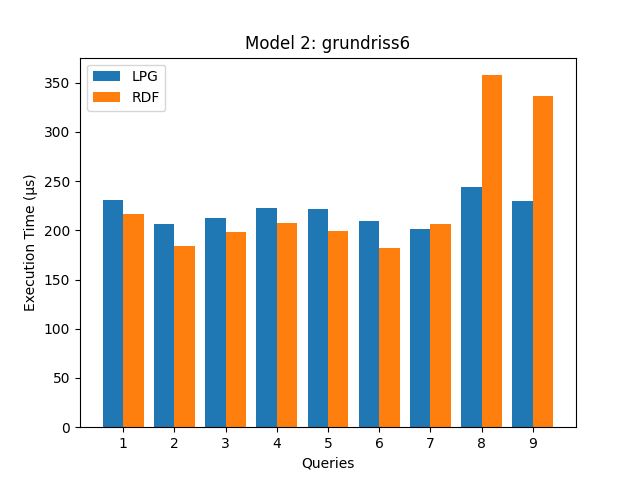
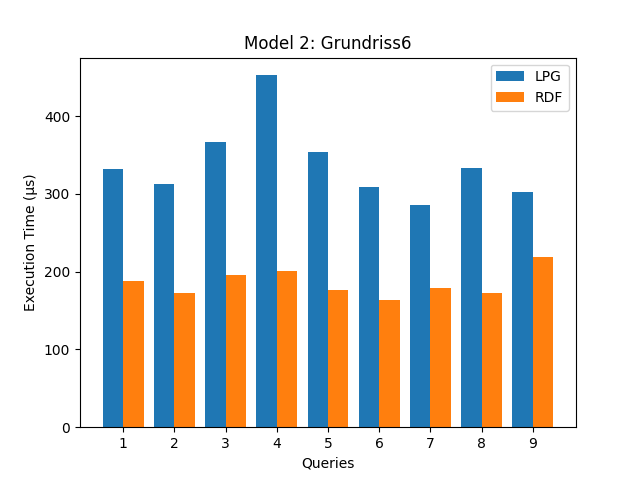
change metrics & execute the experiment again

diff --git a/main.py b/main.py
@@ -1,12 +1,12 @@
 from experiments import performanceTest
 import matplotlib.pyplot as plt
+import matplotlib.ticker as ticker
 import numpy as np
 import pandas as pd
 
 def average_response_time(experiment):
         
-        for i, model in enumerate(["grundriss2", "grundriss6", "grundriss8", "grundriss10"]): 
-
+        for i, model in enumerate(["Grundriss2", "Grundriss6", "Grundriss8", "Grundriss10"]): 
             # find right path of the model
             model_path_LPG =f"{experiment}/results/{model}.csv"
             model_path_RDF =f"{experiment}/results/{model}RDF.csv"
@@ -19,10 +19,16 @@ def average_response_time(experiment):
             X_axis = np.arange(len(queries)) 
 
 
-            plt.bar(X_axis - 0.2, data_LPG["Average Response Time (µs)"], 0.4,  label = 'LPG') 
-            plt.bar(X_axis + 0.2, data_RDF["Average Response Time (µs)"], 0.4,  label = 'RDF') 
+            plt.bar(X_axis - 0.2, data_LPG["Average Response Time (µs)"], 0.4, label = 'LPG') 
+            plt.bar(X_axis + 0.2, data_RDF["Average Response Time (µs)"], 0.4, label = 'RDF') 
 
+            if "2" in experiment or ("1" in experiment and model == "Grundriss8"):
+                plt.yscale('log')
+                # Use ScalarFormatter to get integer labels
+                plt.gca().yaxis.set_major_formatter(ticker.ScalarFormatter())
+                
 
+        
             plt.xticks(X_axis, queries) 
             plt.xlabel("Queries") 
             plt.ylabel("Execution Time (µs)") 
@@ -32,10 +38,7 @@ def average_response_time(experiment):
             plt.savefig(f"{experiment}/diagrams/{model}.png")
             plt.close()
 
-
-
-if __name__ == "__main__":
-    iterations = 1000
+def conduct_experiments(iterations = 1000):
     #first Experiment 
     e1 = performanceTest(file ="./experiment_1/queries.xlsx", numberOfIteration=iterations)
     e1.executeExperiment()
@@ -46,6 +49,9 @@ if __name__ == "__main__":
     e2.executeExperiment()
     e2.convertResults("./experiment_2/results")
 
+
+if __name__ == "__main__":
+    conduct_experiments()
     # Anaysis 
     average_response_time("experiment_1")
     average_response_time("experiment_2")

diff --git a/experiments.py b/experiments.py
@@ -10,7 +10,7 @@ class performanceTest:
     def __init__(self, file, numberOfIteration):
 
         # Graphs that are saved in neo4j
-        self.databases = ["grundriss2", "grundriss2RDF", "grundriss6", "grundriss6RDF", "grundriss8", "grundriss8RDF", "grundriss10", "grundriss10RDF"]
+        self.databases = ["Grundriss2", "Grundriss2RDF", "Grundriss6", "Grundriss6RDF", "Grundriss8", "Grundriss8RDF", "Grundriss10", "Grundriss10RDF"]
 
         # Adding the execution times for graph (LPG and RDF graph)
         self.graphs_metrics={}
